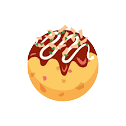
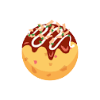
main

diff --git a/script.js b/script.js
@@ -24,7 +24,7 @@ window.onload = function () {
 	game.preload([tweetImgUrl]);					//データを読み込んでおく		
 
 	//背景画像
-	const backgroundURL = "img/bg_outside.jpg";
+	const backgroundURL = "img/bg-outside.png";
 	game.preload([backgroundURL]);
 	//読み込み終わり
 	/////////////////////////////////////////////////
@@ -43,12 +43,11 @@ window.onload = function () {
 
 
 
-		const mainScene = new Scene();					//シーン作成
-		game.pushScene(mainScene);  					//mainSceneシーンオブジェクトを画面に設置
+		const mainScene = new Scene();
+		game.pushScene(mainScene);
 		var bg = new Sprite(400,500);
 		bg.image = game.assets[backgroundURL];
 		mainScene.addChild(bg);
-		// mainScene.backgroundColor = "black"; 			//mainSceneシーンの背景は黒くした
 
 		//ポイント表示テキスト
 		const scoreText = new Label(); 					//テキストはLabelクラス
@@ -60,7 +59,7 @@ window.onload = function () {
 
 		scoreText.text = "現在：" + point;					//テキストに文字表示 Pointは変数なので、ここの数字が増える
 
-		const takoyakiImg = new Sprite(150, 150);				//画像サイズをここに書く。使う予定の画像サイズはプロパティで見ておくこと
+		const takoyakiImg = new Sprite(100, 100);				//画像サイズをここに書く。使う予定の画像サイズはプロパティで見ておくこと
 		takoyakiImg.moveTo(118, 100);						//ぞう山ボタンの位置
 		takoyakiImg.image = game.assets[takoyakiImgUrl];			//読み込む画像の相対パスを指定。　事前にgame.preloadしてないと呼び出せない
 		mainScene.addChild(takoyakiImg);					//mainSceneにこのぞう山画像を貼り付ける  
